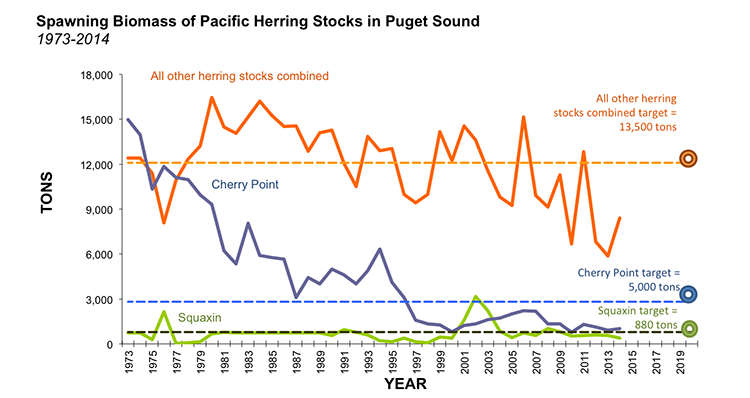
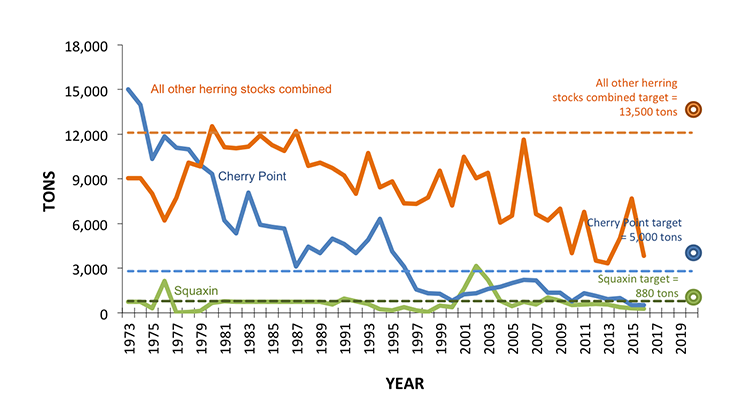
edits

Changed region(s): [[0.0307, 0.1818, 0.9507, 1.0], [0.0307, 0.0303, 0.644, 0.1515]]

diff --git a/includes/marine_water_quality-title.html b/includes/marine_water_quality-title.html
@@ -4,7 +4,7 @@
 		<div id="vitalheaderleftcontainer">
 			<div id="vitaltitle">Marine Water Quality</div>
 			<div id="vitalquote">As dissolved oxygen decreases, it becomes harder for animals to get the oxygen they need to survive.</div>
-			<div id="vitalchampion">Indicator Lead: Christopher Krembs and Jessica Carlson, Washington State Department of Ecology</div>
+			<div id="vitalchampion">Indicator Lead: Christopher Krembs and Jennifer Carlson, Washington State Department of Ecology</div>
 			<div id="vitalbuttonscontainer">
 			<!--	<div id="button1"><a href="http://www.psp.wa.gov/pugetsoundprojectatlas" target="_blank">View Projects</a></div>-->
 				<div id="button2"><a href="http://psp.wa.gov/gis/ReportCard/VitalSign/indexVSMarineWaterQuality.html" target="_blank">View Report Card</a></div><div id="button3"><a href="https://pspwa.box.com/s/0cwa8p5ei8bk3g9ko89uv2n87cfhn8c4" target="_blank">Download PDF from the latest State of the Sound report</a></div>

diff --git a/pacific_herring_indicator1.php b/pacific_herring_indicator1.php
@@ -80,6 +80,9 @@ $(function() {
 			<!--*********************************PINK HEADER*********************************-->
 		  <div class="pinkBarHeader">Data</div>
 		  <h3>FIGURE 1.</h3>
+          <h4>SPAWNING BIOMASS OF PACIFIC HERRING STOCKS IN PUGET SOUND<br />
+<em>1973 – 2016</em></h4>
+
 			<p><img src="images/pacific-herring-chart.png" width="750" height="398" alt="Spawning biomass of Pacific herring stocks in Puget Sound, in tons, 1973-2014" />
 		  </p>
 			<blockquote>
@@ -90,8 +93,7 @@ $(function() {
 		    <p>Indeed, in Puget Sound, the bulk of the biomass of the “all other stocks” grouping is contributed by different stocks in different years, further implicating the role of site-specific variability.  In recent years the biomass of the Quilcene Bay stock has substantially bolstered the overall estimate for the other stocks complex. Quilcene Bay biomass is currently at an all-time high (more than double its ten year average) and, along with the two other Hood canal populations, made up over half of the spawn biomass for Puget Sound as a whole in 2016.</p>
 <h5>Why is this happening?</h5>
 
-<p>effects of climate change, are not well understood. Further studies are needed to elucidate the effect of these possible pressures.<br />
-  Several factors contribute to difficulties in understanding Cherry Point herring stock declines and in the trends of other herring stocks, including survey methods and exploitation rate analysis.</p>
+<p>The exact causes of the Cherry Point herring decline are unknown, but it has been variously attributed to many potential factors such as chronic pollution (e.g., PCB and PAH contaminants), oil spills, overfishing, parasites, disease, and changes in abundance of predators or prey. Changes to the natural shoreline, including nearby industrial construction and operation, may also play a role. Finally, the extent to which food-web interactions may limit herring populations, and how such interactions are mediated by the effects of climate change, are not well understood. Further studies are needed to elucidate the effect of these possible pressures. Several factors contribute to difficulties in understanding Cherry Point herring stock declines and in the trends of other herring stocks, including survey methods and exploitation rate analysis.</p>
   <p>Since 1973 at Cherry Point and 1986 for the rest of the stocks, the Department of Fish &amp; Wildlife conducted a combination of Spawn Deposition surveys and Acoustic-Trawl surveys to estimate herring spawning biomass. Until 1996, the spawning biomass of the larger Puget Sound stocks typically was assessed by both methods each year, while the smaller stocks were surveyed by spawn deposition surveys every three years. Since 1996, duplicate assessment coverage was reduced and assessment for all known herring stocks was attempted each year by at least one survey method. Acoustic-Trawl surveys were discontinued in 2009 due to budget reductions, but spawn deposition surveys have been conducted annually for each stock since that time.</p>
   <p>In addition to spawning biomass, biological samples used to estimate growth, mortality, and recruitment were obtained from the Acoustic-Trawl surveys. These data, which are not currently being collected, are useful for assessing the stocks’ population dynamics and capacity to meet the targets, and to understand the mechanisms driving these trends.</p>
   <p>For example, for the Cherry Point and most other Puget Sound stocks, there has been a shift in the age structure of the population since the late 1970s and early 1980s toward younger fish, which probably affected their productivity and slowed recovery.</p>
@@ -103,7 +105,7 @@ $(function() {
 		  <div class="pinkBarHeader">Maps</div>
           <h3>FIGURE 2.</h3>
           <h4>DISTRIBUTION OF PACIFIC HERRING SPAWNING GROUNDS IN PUGET SOUND<br />
-<em>2014</em></h4>
+<em>2016</em></h4>
 			<img src="images/herring-map.png" alt="Pacific herring spawning grounds in Puget Sound"/>
 			<blockquote>
 			  <p>

diff --git a/pacific_herring.php b/pacific_herring.php
@@ -61,7 +61,7 @@ $(function() {
 			<!--*********************************FOLD 05*********************************-->
 			<h3><a href="#!">What our partners are doing</a></h3>
 			<div>
-				<p><a href="http://gismanager.rco.wa.gov/ntaportal/?VitalSign=Pacific+Herring">View Near Term Actions helping to advance this Vital Sign</a></p>
+				<p><a href="http://psp.wa.gov/gis/ReportCard/VitalSign/indexVSPacificHerring.html">View Near Term Actions helping to advance this Vital Sign</a></p>
 			</div>
 			<!--*********************************FOLD 06*********************************-->
 			<h3><a href="#!">Links for more information</a></h3>
